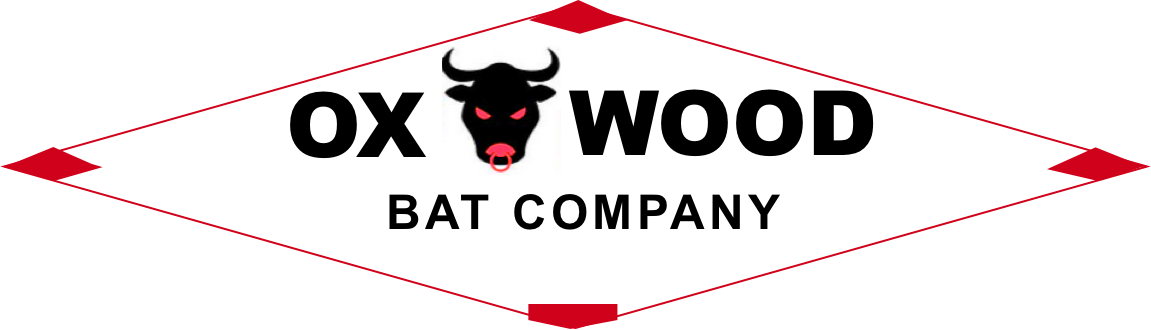
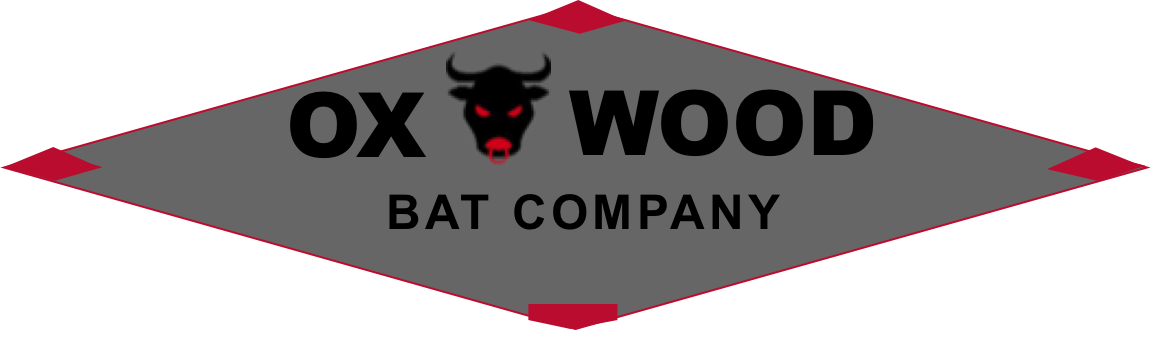
Red color change, fixed position

diff --git a/css/batstyles.css b/css/batstyles.css
@@ -9,13 +9,18 @@
 	display:flex;
 	justify-content: center;
 	margin-bottom:17vh;
+	position:fixed;
+	height:100px;
+	z-index:5;
+	width:100vw;
+	top:10px;
 
 }
 
 #batlogo {
 	width:135px;
 	position:absolute;
-	top:33px;
+	top:25px;
 	
 }
 
@@ -132,6 +137,7 @@ h1 {
 	list-style: none;
 	
 	border-top:5px solid #0071B2;
+	margin-top:18vh;
 }
 
 
